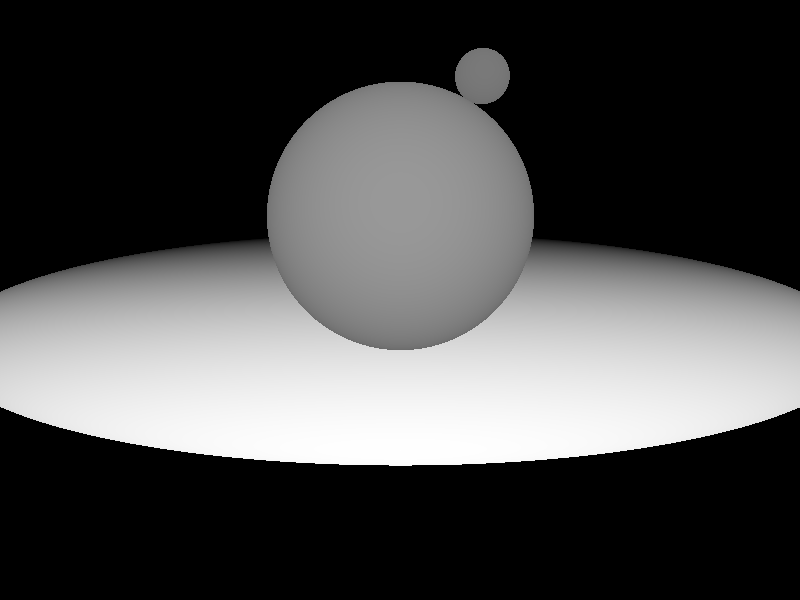
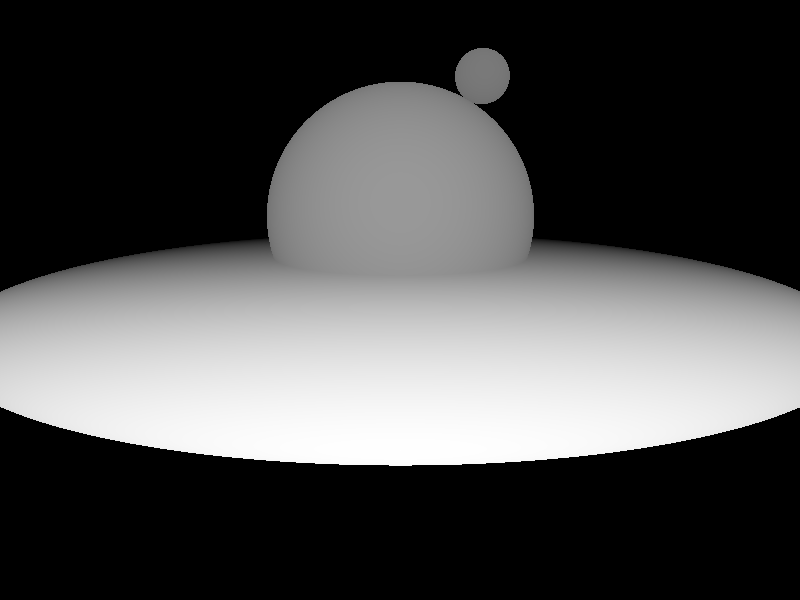
fix z distance

Changed region(s): [[0.3438, 0.45, 0.6562, 0.6]]

diff --git a/BHRayTracer/Main.cpp b/BHRayTracer/Main.cpp
@@ -14,24 +14,28 @@ LightList lights;
 #define PI 3.14159265
 int LoadScene(char const *filename);
 
-void recursive(int _i, int _j,Node* root, Ray ray, bool &_bHit) {
+void recursive(int _i, int _j,Node* root, Ray ray, bool &_bHit, float& _closestZ) {
 	if (root->GetNumChild() <= 0) return;
 	for (int i = 0; i < root->GetNumChild(); i++)
 	{
 		if (root->GetChild(i)->GetNodeObj() != nullptr) {
 			
 			Ray transformedRay = root->GetChild(i)->ToNodeCoords(ray);
-			recursive(_i, _j,root->GetChild(i), transformedRay, _bHit);
+			recursive(_i, _j,root->GetChild(i), transformedRay, _bHit, _closestZ);
 
 			HitInfo outHit;
 			if (root->GetChild(i)->GetNodeObj()->IntersectRay(transformedRay, outHit, 1))
 			{
-				outHit.node = root->GetChild(i);
-				Color outColor = outHit.node->GetMaterial()->Shade(transformedRay, outHit, lights);
-				renderImage.GetPixels()[_j*camera.imgWidth + _i].Set(outColor.r*255, outColor.g * 255, outColor.b * 255);
-				renderImage.GetZBuffer()[_j*camera.imgWidth + _i] = outHit.z;
+				if (outHit.z <= _closestZ) {
+					_closestZ = outHit.z;
 
-				_bHit = true;
+					outHit.node = root->GetChild(i);
+					Color outColor = outHit.node->GetMaterial()->Shade(transformedRay, outHit, lights);
+					renderImage.GetPixels()[_j*camera.imgWidth + _i].Set(outColor.r * 255, outColor.g * 255, outColor.b * 255);
+					renderImage.GetZBuffer()[_j*camera.imgWidth + _i] = outHit.z;
+					_bHit = true;
+				}
+
 			}
 		}
 	}
@@ -62,7 +66,8 @@ void BeginRender() {
 			tRay.dir = pixelPos - rayStart;
 			// For this ray, if it hits or not
 			bool bHit = false;
-			recursive(i, j, &rootNode, tRay, bHit);
+			float cloestZ = BIGFLOAT;
+			recursive(i, j, &rootNode, tRay, bHit, cloestZ);
 			// if it is not hit, write as black and the z buffer is big float
 			if (!bHit) {
 				renderImage.GetPixels()[j*camera.imgWidth + i].Set(0, 0, 0);

diff --git a/BHRayTracer/DataStructure/MtlBlinn.cpp b/BHRayTracer/DataStructure/MtlBlinn.cpp
@@ -1,32 +1,31 @@
 #include "materials.h"
 #include "scene.h"
+#include <math.h>
 Color MtlBlinn::Shade(Ray const &ray, const HitInfo &hInfo, const LightList &lights) const {
 	// fs = kd + ks * vH.dot(vN) * 1/ Cos(theta)
 	Color outColor(0,0,0);
-	Vec3f vN = hInfo.N;
-	vN.Normalize();
-	Vec3f vV = -ray.dir + hInfo.p;
-	vV.Normalize();
+	Vec3f vN = hInfo.N.GetNormalized();
+
+	Vec3f vV = (ray.p - hInfo.p).GetNormalized();
 	for (auto it = lights.begin(); it!= lights.end(); ++it)
 	{
 		if (!(*it)->IsAmbient()) {
-			Vec3f vL = -(*it)->Direction(hInfo.p);
+			Vec3f vL = (-(*it)->Direction(hInfo.p)).GetNormalized();
 			float cosTheta = vL.Dot(vN);
 			if (cosTheta <= 0) {
 				// from back side
 				break;
 			}
-			Vec3f vH = (vL + vV);
-			vH.Normalize();
-			Color bdrf = diffuse * cosTheta + specular * vH.Dot(vN);
-			outColor += bdrf;// +(*it)->Illuminate(hInfo.p, vN);
+			Vec3f vH = (vL + vV).GetNormalized();
+			Color bdrf = diffuse * cosTheta + specular * pow(vH.Dot(vN), glossiness);
+			outColor += bdrf * (*it)->Illuminate(hInfo.p, vN);
 		}
 		else {
 			// it is ambient
 			outColor += (*it)->Illuminate(hInfo.p, vN);
 		}
 	}
-
+	//outColor.ClampMax();
 
 	return outColor;
 }

diff --git a/BHRayTracer/DataStructure/Sphere.cpp b/BHRayTracer/DataStructure/Sphere.cpp
@@ -15,7 +15,10 @@ bool Sphere::IntersectRay(Ray const &ray, HitInfo &hInfo, int hitSide /*= HIT_FR
 	if (DD > 0) {
 		float t1 = (-B + sqrt(DD)) / (2 * A);
 		float t2 = (-B - sqrt(DD)) / (2 * A);
-		hInfo.z = Min(t1, t2);
+		float t = Min(t1, t2);
+		hInfo.z = t;
+		if(t < 0)
+			hInfo.z = Max(t1, t2);
 		hInfo.p = oc + hInfo.z * dir;
 		hInfo.N = hInfo.p;// - Vec3f(0, 0, 0);
 
